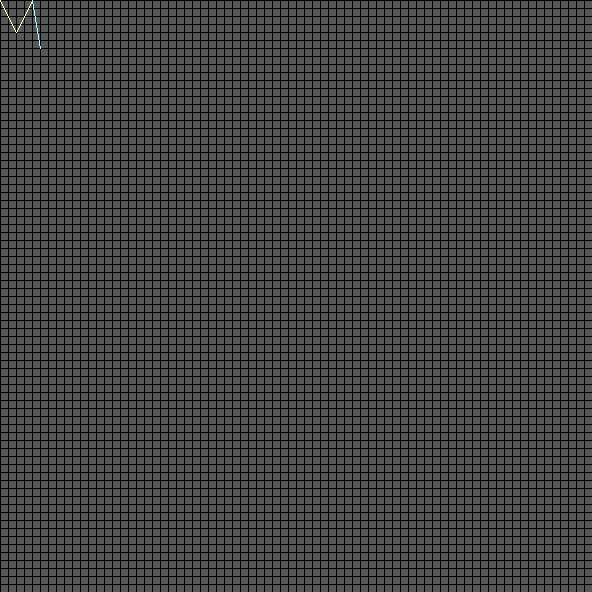
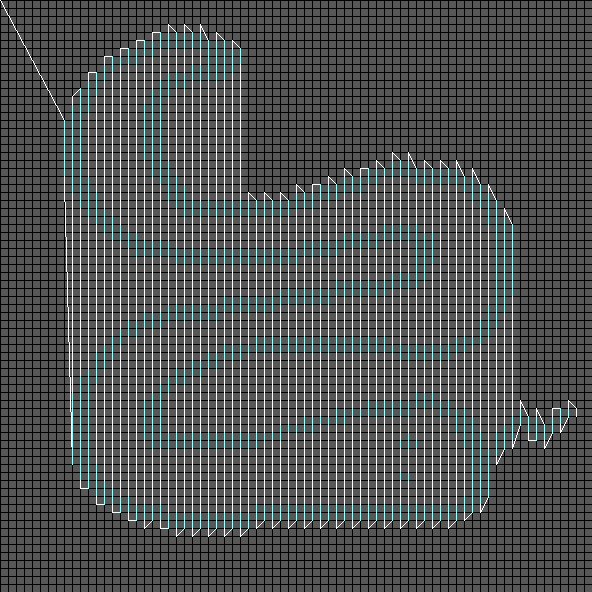
snek

Changed region(s): [[0.1216, 0.0608, 0.973, 0.9122], [0.0304, 0.0, 0.0608, 0.0304]]

diff --git a/src/workpath/vertical.rs b/src/workpath/vertical.rs
@@ -1,0 +1,46 @@
+use super::Action::{self, *};
+use super::{Actions, Navigator};
+use crate::common::*;
+use crate::WorkPoints;
+
+pub struct Vertical {}
+
+impl Navigator for Vertical {
+    fn navigate(&self, points: &WorkPoints) -> Actions {
+        let _tool_bounds = points.tool_bounds();
+        let points = points.points();
+
+        let mut engaged = false;
+        let mut actions = vec![Retreat];
+        for (x, col) in points.iter().enumerate() {
+            actions.push(Note(format!("Column {x}")));
+            let iter = col.iter().enumerate();
+            if x % 2 == 0 {
+                for (y, pixel) in iter {
+                    actions.append(&mut action_match(*pixel, engaged, x, y));
+                    engaged = *pixel;
+                }
+            } else {
+                for (y, pixel) in iter.rev() {
+                    actions.append(&mut action_match(*pixel, engaged, x, y));
+                    engaged = *pixel;
+                }
+            };
+        }
+
+        actions
+    }
+}
+
+fn action_match(pixel: bool, engaged: bool, x: usize, y: usize) -> Vec<Action> {
+    match (pixel, engaged) {
+        (true, true) => vec![Move(pos(x, y))],
+        (true, false) => vec![Move(pos(x, y)), Engage],
+        (false, true) => vec![Retreat, Move(pos(x, y))],
+        (false, false) => vec![],
+    }
+}
+
+fn pos(x: usize, y: usize) -> V {
+    V::new(x as f32, y as f32)
+}

diff --git a/src/workpath/mod.rs b/src/workpath/mod.rs
@@ -1,4 +1,4 @@
-pub mod horizontal;
+pub mod vertical;
 
 use crate::common::*;
 use crate::WorkPoints;
@@ -11,9 +11,10 @@ use imageproc::drawing::Canvas;
 use imageproc::rect::Rect;
 
 pub enum Action {
-    Up,
-    Down,
+    Retreat,
+    Engage,
     Move(V),
+    Note(String),
 }
 pub type Actions = Vec<Action>;
 
@@ -44,7 +45,8 @@ impl WorkPath {
         let grid = true;
         let color_grid = Rgba([0, 0, 0, 255]);
         let color_engaged = Rgba([128, 255, 255, 180]);
-        let color_disengaged = Rgba([255, 255, 128, 100]);
+        let color_disengaged = Rgba([255, 255, 128, 0]);
+        // let color_disengaged = Rgba([255, 255, 128, 100]);
 
         let w: Tile = *self.source_bounds.right();
         let h: Tile = *self.source_bounds.bottom();
@@ -64,8 +66,8 @@ impl WorkPath {
         let mut engaged = false;
         for action in &self.actions {
             match action {
-                Action::Up => engaged = false,
-                Action::Down => engaged = true,
+                Action::Retreat => engaged = false,
+                Action::Engage => engaged = true,
                 Action::Move(target) => {
                     let color = if engaged {
                         color_engaged
@@ -80,6 +82,7 @@ impl WorkPath {
                     );
                     pos = *target;
                 }
+                Action::Note(_) => (),
             }
         }
 

diff --git a/src/main.rs b/src/main.rs
@@ -57,7 +57,7 @@ fn main() {
         wpo.save(path);
     }
 
-    let navi = workpath::horizontal::Horizontal {};
+    let navi = workpath::vertical::Vertical {};
     let wpa = WorkPath::with_navigator(wpo, navi);
     if let Some(path) = args.workpath_img {
         wpa.save(path);
